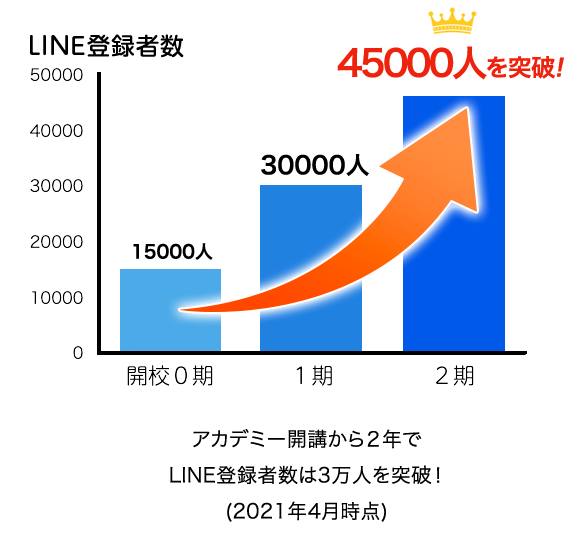
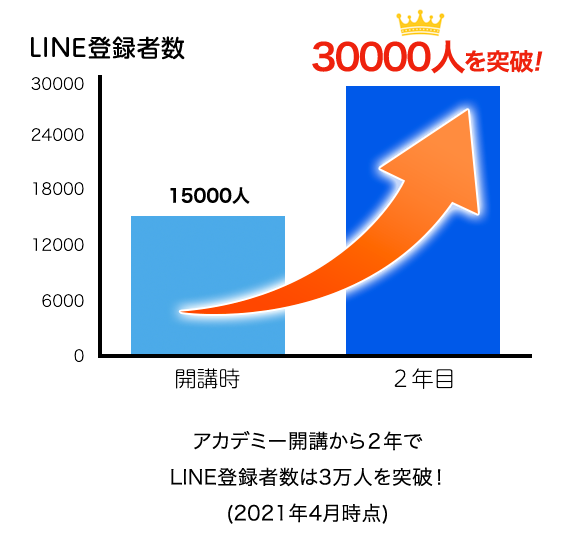
新增 TV 圖片、修改長條圖

Changed region(s): [[0.0296, 0.0, 1.0, 0.7174], [0.2957, 0.7798, 0.7687, 0.967]]

diff --git a/index.html b/index.html
@@ -325,6 +325,12 @@
 				</div>
 			</div>
 		</section>
+
+		<section>
+			<img src="images/tv-pc.jpg" class="img-fluid d-none d-md-block mx-auto">
+			<img src="images/tv-mobile.jpg" class="img-fluid d-md-none">
+		</section>
+
 		<section style="background: url(images/ending-bg-pc.jpg);">
 			<img src="images/ending-pc.jpg" class="img-fluid d-none d-md-block mx-auto">
 			<img src="images/ending-mobile.jpg" class="img-fluid d-md-none">
